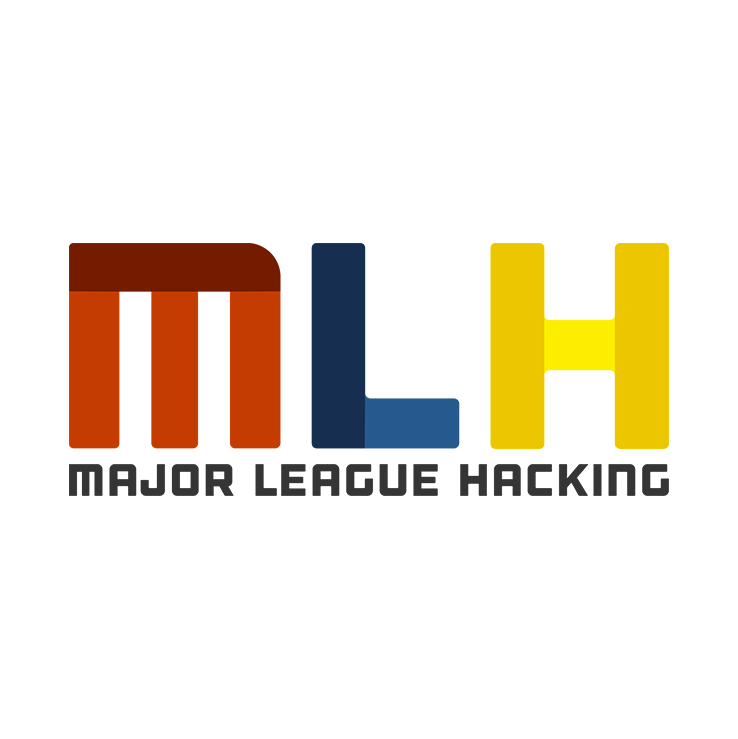
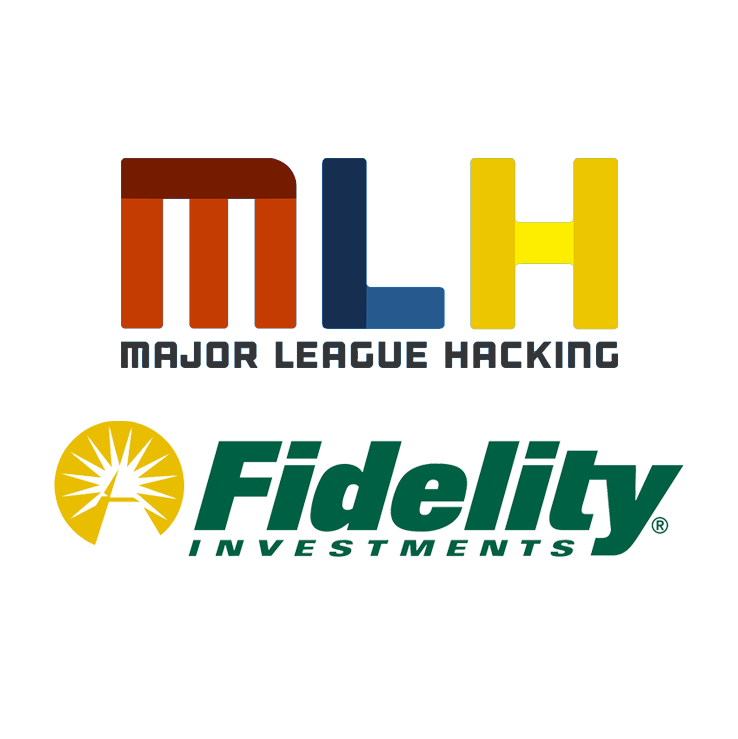
devpost link added

Changed region(s): [[0.0623, 0.1867, 0.935, 0.7781]]

diff --git a/_site/index.html b/_site/index.html
@@ -243,7 +243,7 @@
                     <div class="timeline-body">
                       <p class="font-italic">
                         The Five brainstormed at BostonHacks 2018 to come up with inital idea for ParknGo. After 36 hours of converting the idea into a prototype,
-                        we demoed ParknGo for the first time. We were also fortunate to win the BU Spark! Innovation fellowship and best use of Authorize.net API.
+                        we demoed ParknGo for the first time. We were also fortunate to win the BU Spark! Innovation fellowship and best use of Authorize.net API. <a href="https://devpost.com/software/park-n-go-f7dvwi" target="_blank"> Devpost link.</a>
                       </p>
                     </div>
                   </div>
@@ -257,7 +257,7 @@
                       <h4 class="subheading">Best hack for social good</h4>
                     </div>
                     <div class="timeline-body">
-                      <p class="font-italic">After a week, we get notified by Major League Hacking that ParknGo has won the best hack for social good.</p>
+                      <p class="font-italic">After a week, we get notified by Major League Hacking that ParknGo has won the best hack for social good by Fidelity Investments.</p>
                     </div>
                   </div>
                 </li>

diff --git a/index.html b/index.html
@@ -243,7 +243,7 @@
                     <div class="timeline-body">
                       <p class="font-italic">
                         The Five brainstormed at BostonHacks 2018 to come up with inital idea for ParknGo. After 36 hours of converting the idea into a prototype,
-                        we demoed ParknGo for the first time. We were also fortunate to win the BU Spark! Innovation fellowship and best use of Authorize.net API.
+                        we demoed ParknGo for the first time. We were also fortunate to win the BU Spark! Innovation fellowship and best use of Authorize.net API. <a href="https://devpost.com/software/park-n-go-f7dvwi" target="_blank"> Devpost link.</a>
                       </p>
                     </div>
                   </div>
@@ -257,7 +257,7 @@
                       <h4 class="subheading">Best hack for social good</h4>
                     </div>
                     <div class="timeline-body">
-                      <p class="font-italic">After a week, we get notified by Major League Hacking that ParknGo has won the best hack for social good.</p>
+                      <p class="font-italic">After a week, we get notified by Major League Hacking that ParknGo has won the best hack for social good by Fidelity Investments.</p>
                     </div>
                   </div>
                 </li>
